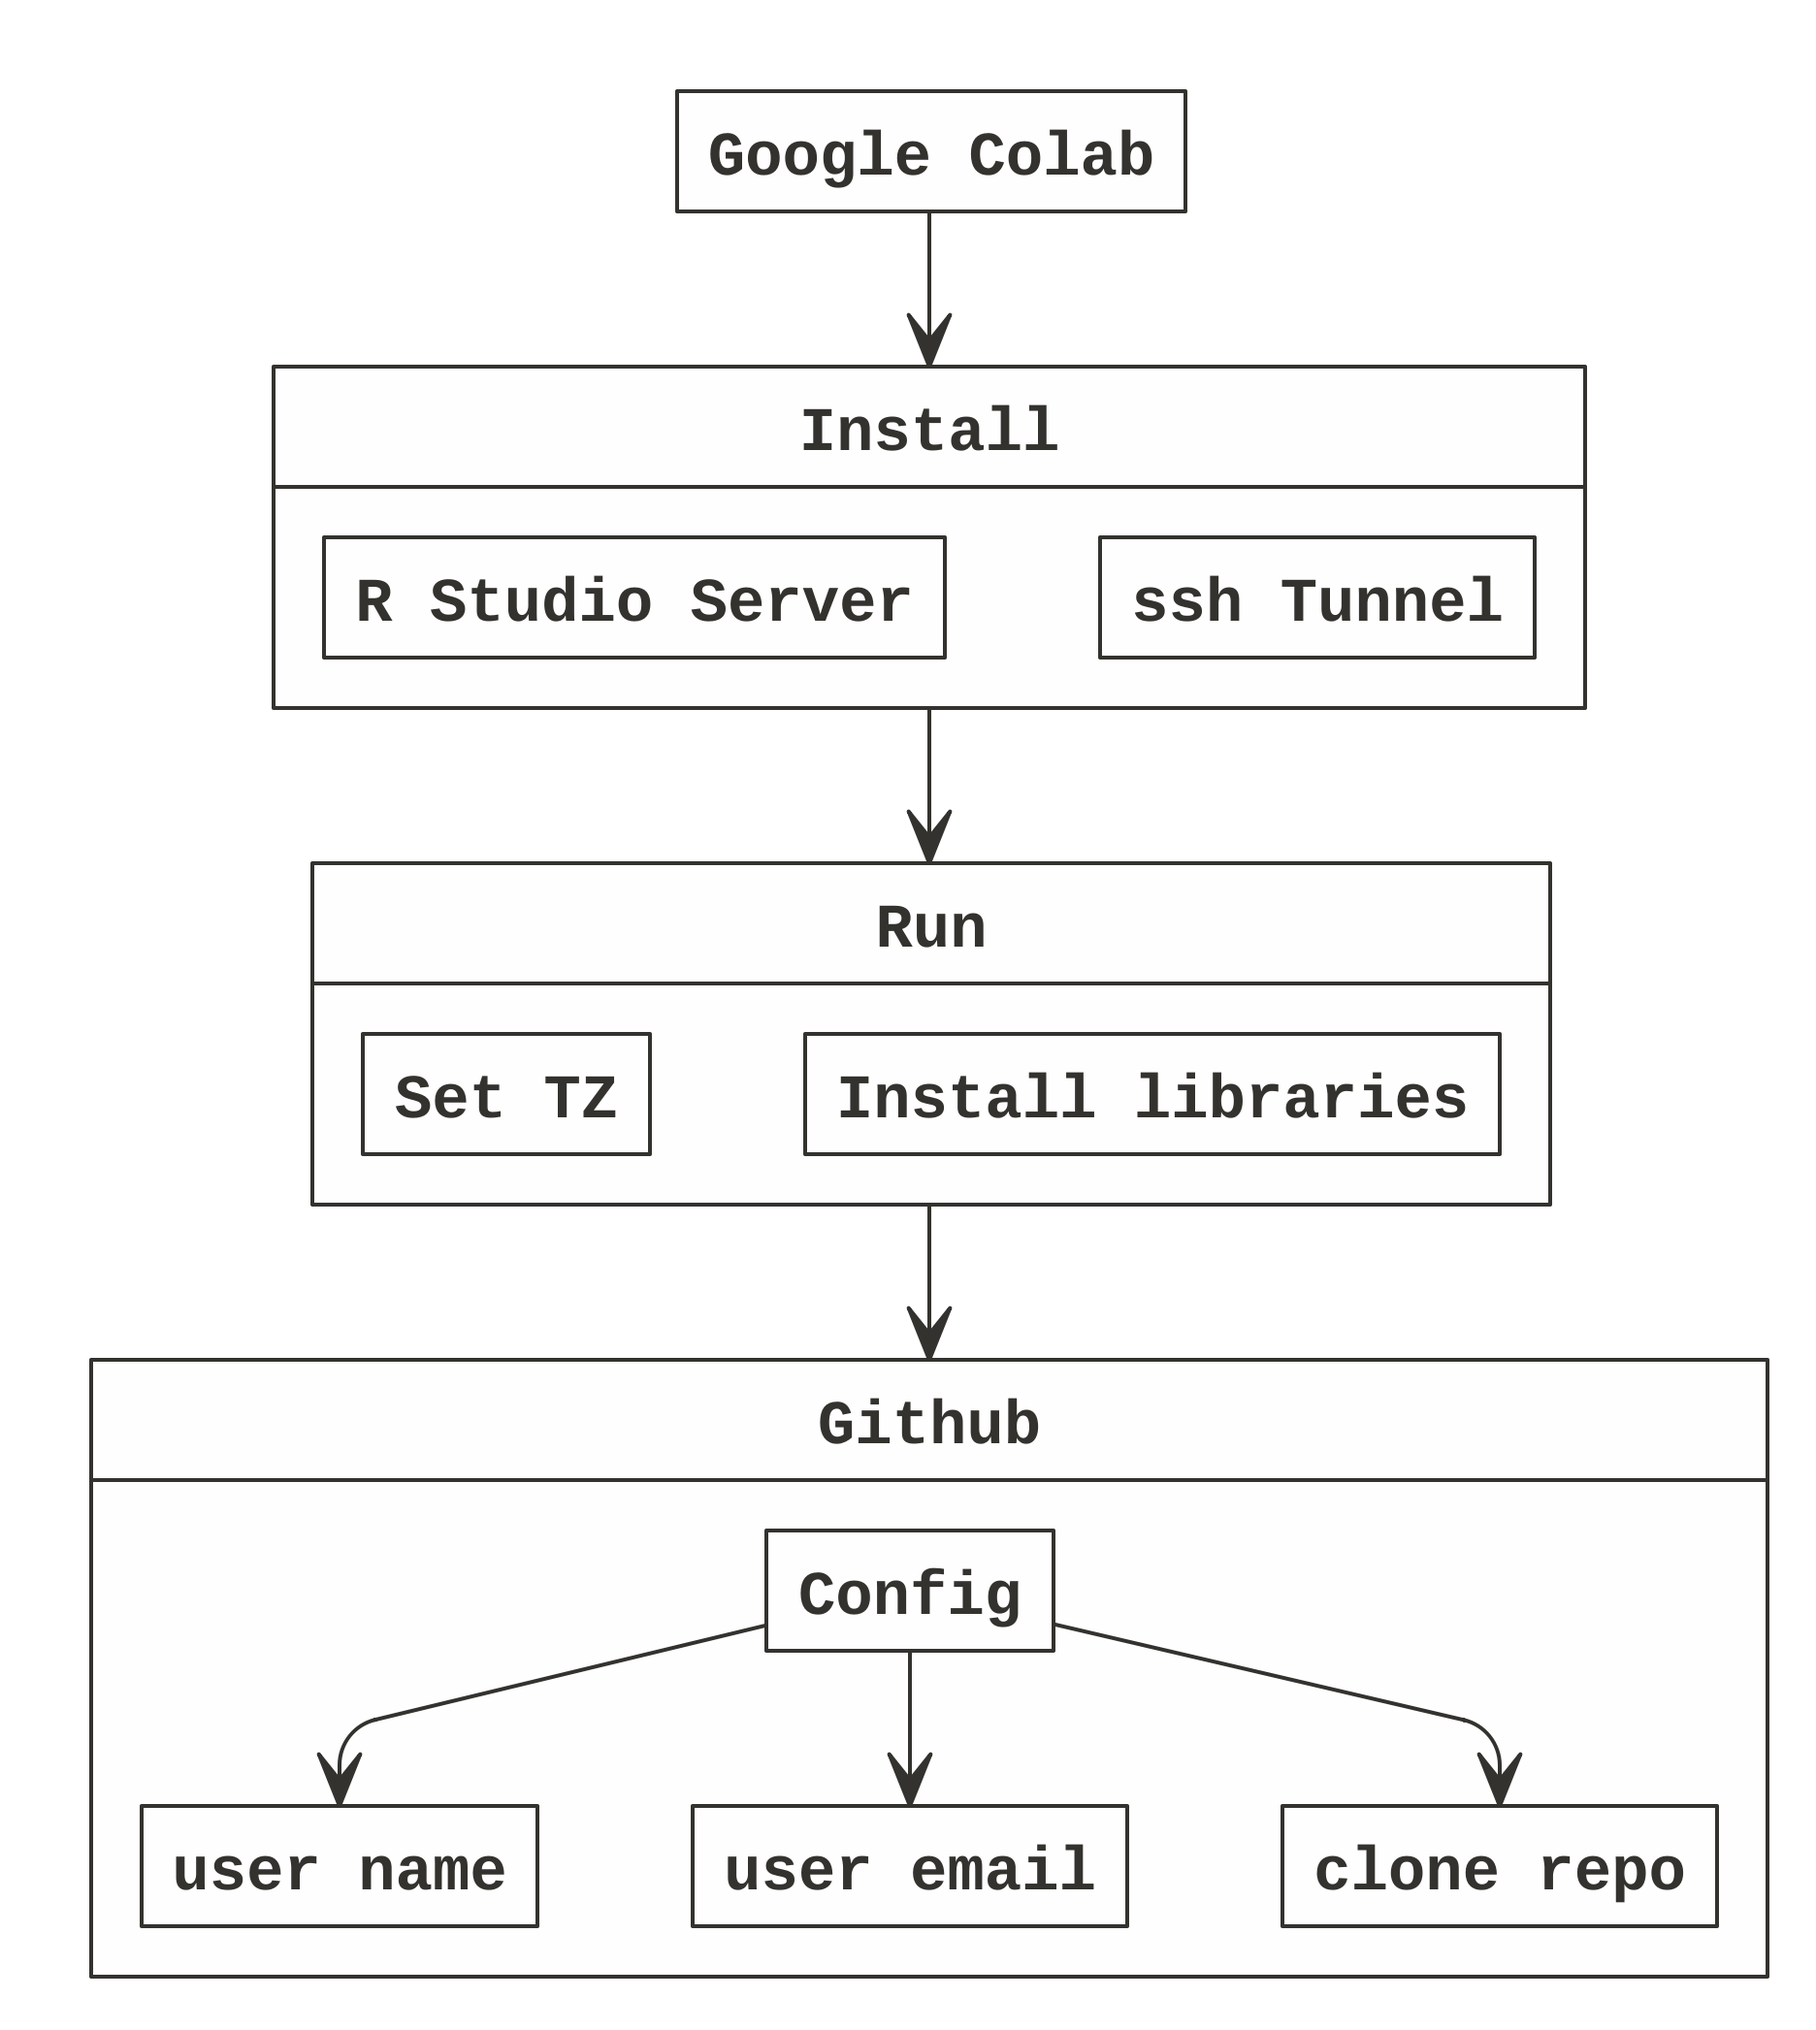
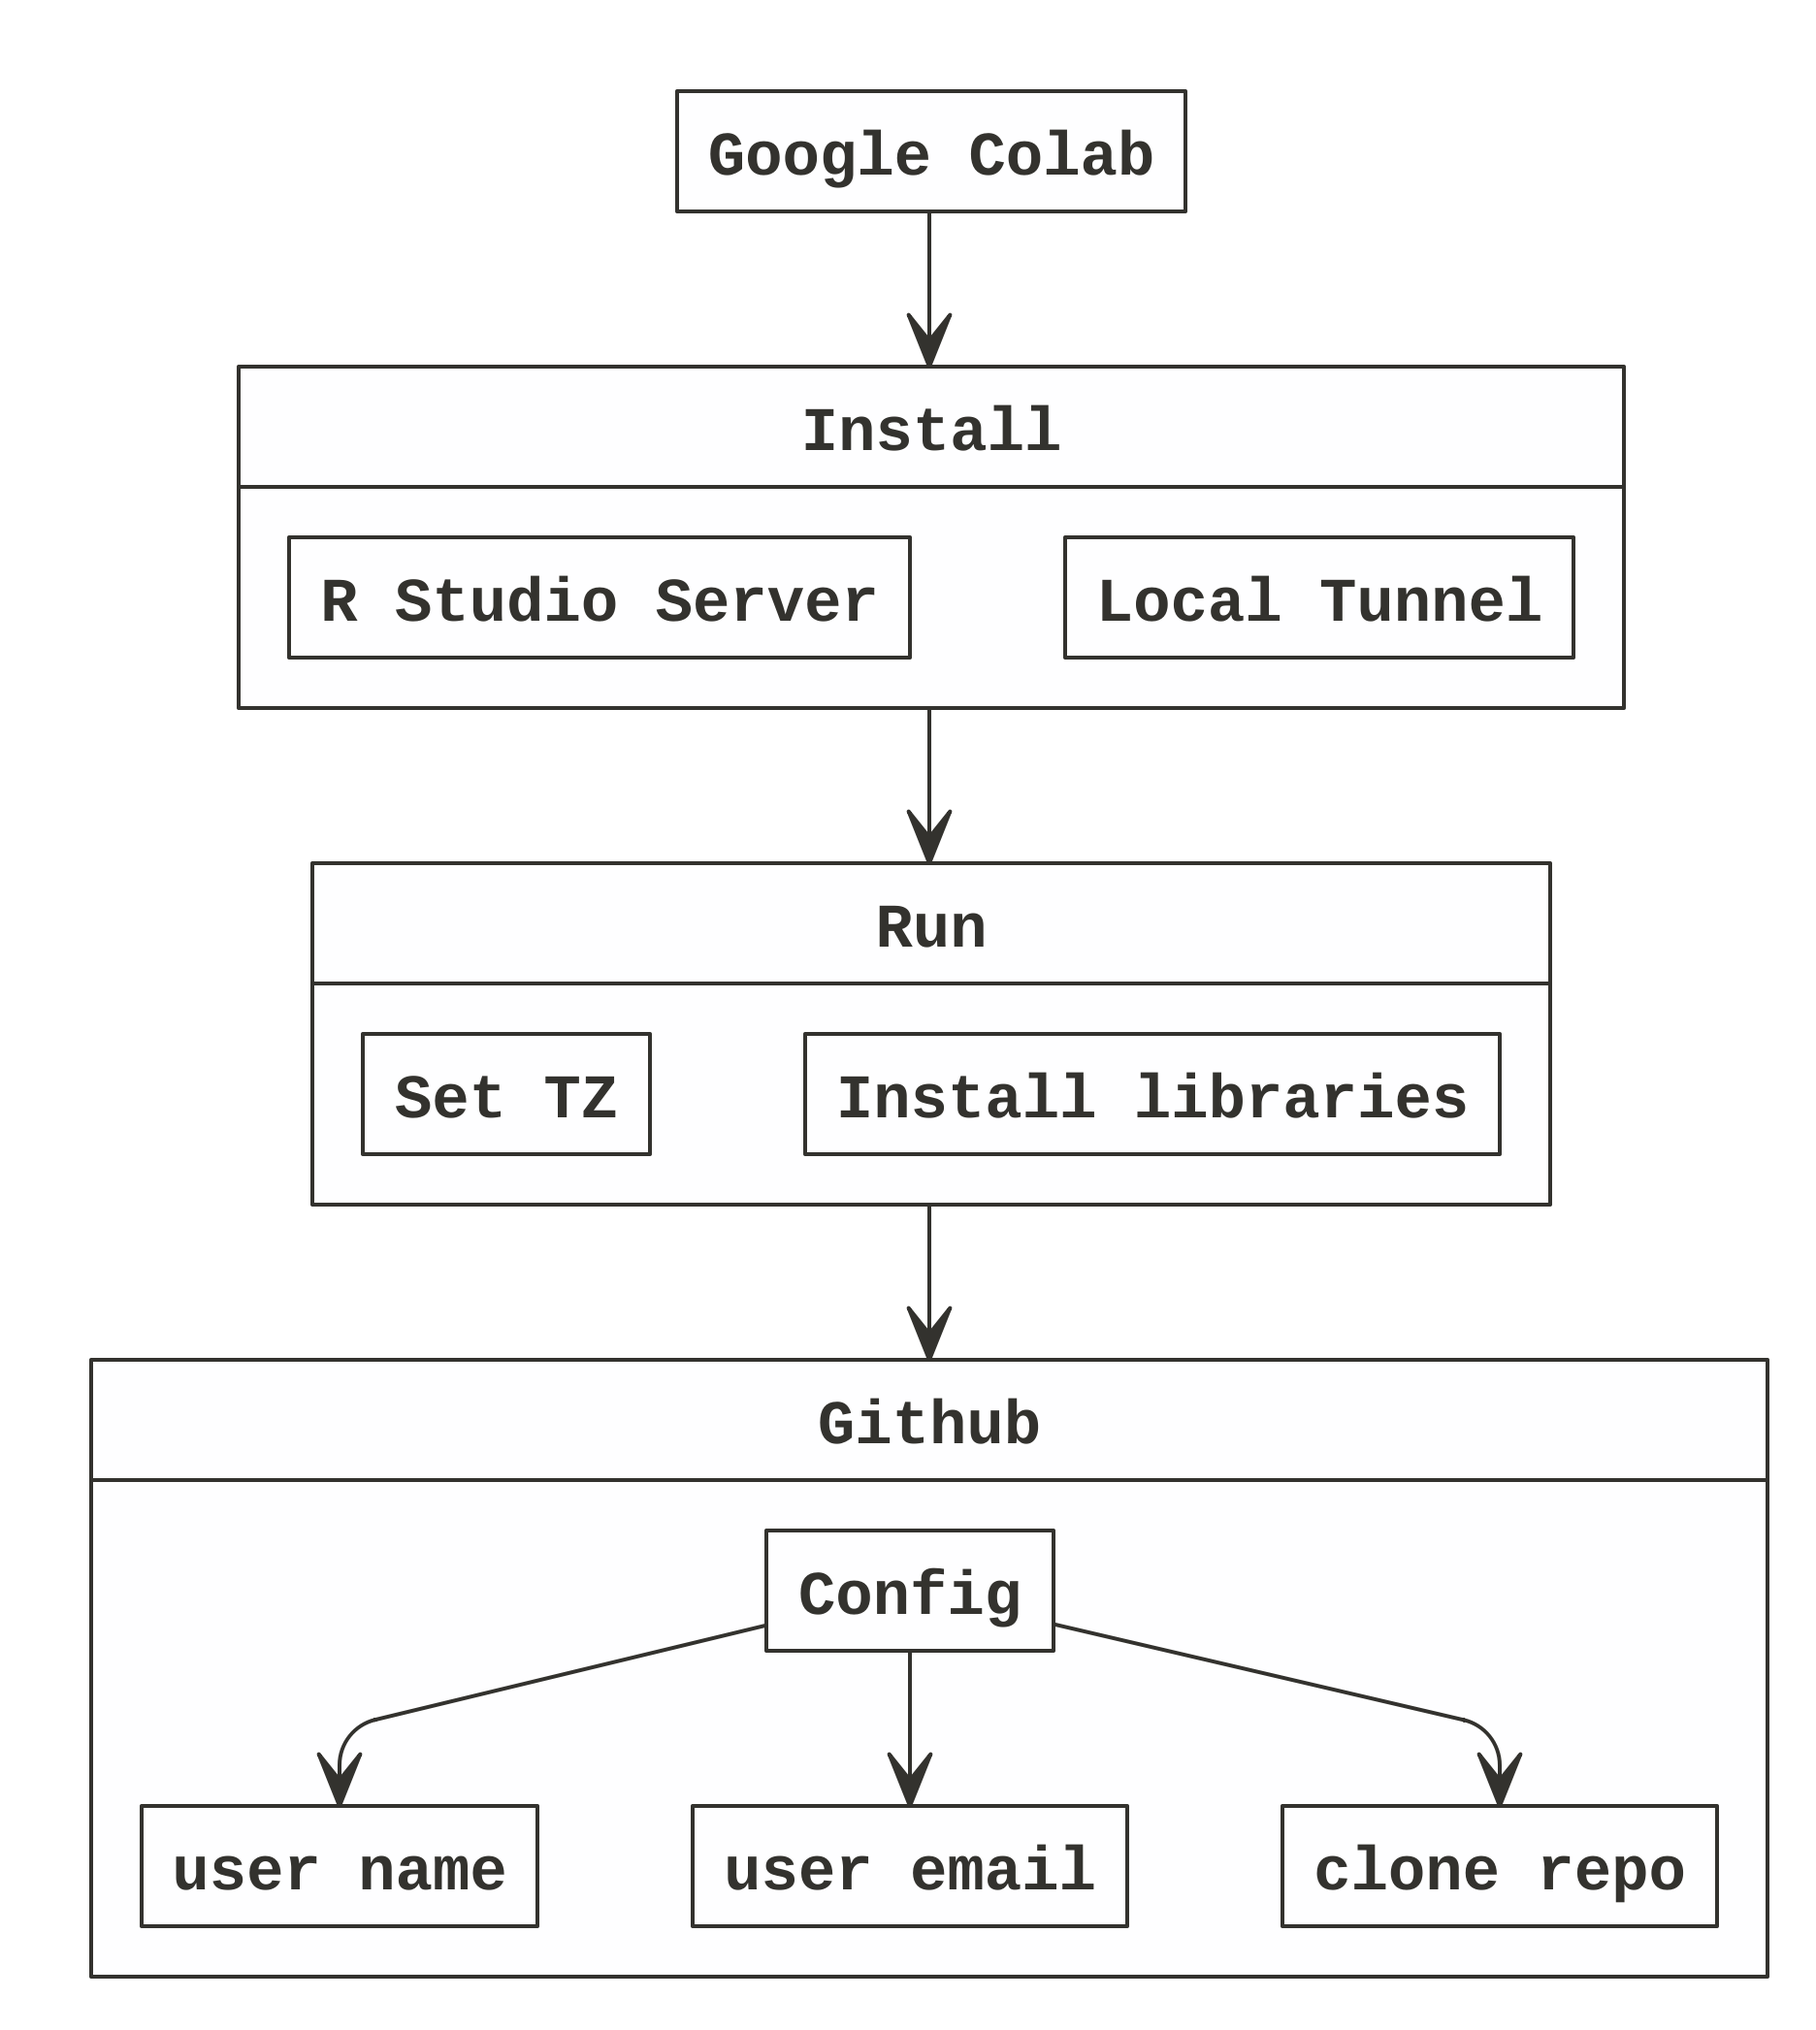
new

Changed region(s): [[0.1239, 0.1863, 0.5267, 0.3416], [0.5887, 0.1863, 0.8985, 0.3416], [0.5267, 0.1863, 0.5577, 0.2174]]

diff --git a/LEFO Market Research/lefo 2021/readme.md b/LEFO Market Research/lefo 2021/readme.md
@@ -50,7 +50,7 @@ forwarding* di **Linux**.
 
 ------------------------------------------------------------------------
 
-# *STEP* 1
+# SESI I
 
 ## Persiapan Github
 
@@ -108,11 +108,95 @@ Sebagai pengaman agar *file* yang ada di *cloud* tidak diganggu oleh
 orang yang tidak berkepentingan, kita perlu membuat *tokens* yang
 berguna untuk komunikasi antara **R Studio** dengan Github.
 
-## Set Time Zone
+## Persiapan Google Colab
+
+Pastikan kita telah memiliki akun Gmail. Buka situs [Google
+Colab](https://colab.research.google.com/#create=true) berbasis
+`Python3`.
+
+*Copy-paste-run codes below:*
+
+    # saya berikan penjelasan setiap baris codesnya ya
+
+    # dua baris ini adalah untuk membuat user di Linux
+    # secara default saya buat sebagai berikut:
+      # user : rstudio
+      # pass : password
+    # feel free untuk mengganti ATAU menambahkan multi user
+    # ingatlah bahwa compute engine ini milik Google
+    # jadi siapa tahu bisa dirun paralel untuk multi user
+
+    !sudo useradd -m -s /bin/bash rstudio
+    !echo rstudio:password | chpasswd
+
+
+    # melakukan update Linux
+    !apt-get update
+
+    # install R base (cli version)
+    !apt-get install r-base
+
+    # install beberapa library Linux
+    !apt-get install libglpk-dev # ini khusus untuk optimisasi
+    !apt-get install gdebi-core
+
+    # download installer R studio server dari situs resmi
+    !wget https://download2.rstudio.org/server/bionic/amd64/rstudio-server-1.4.1103-amd64.deb
+
+    # proses instalasi R studio server
+    !gdebi -n rstudio-server-1.4.1103-amd64.deb
+
+    # Install localtunnel
+    !npm install -g npm
+    !npm install -g localtunnel
+
+    # forward port 8787 ke public
+    !lt --port 8787 
+
+Proses ini berkisar antara 2-3 menit saja.
+
+Setelah prosesnya selesai, silakan buka alamat situs yang tertera. Klik
+`continue` dan masukkan *username* dan *password* yang telah kita
+tentukan.
+
+## Persiapan **R Studio Server**
+
+**R Studio Server** sudah bisa digunakan. Beberapa *libraries* standar
+seperti `dplyr` dan `ggplot2` sudah *pre-installed* di dalam sistem.
+
+Jika kita ingin meng-*install* *libraries* lain, kita perlu melakukan
+konfigurasi *time zone* dengan perintah sederhana sebagai berikut:
+
+### *Set Time Zone*
+
+*Copy-paste-run codes below:*
 
     Sys.setenv(TZ = "GMT")
 
-## Config Git Global Setting
+Pada *tab* `Terminal`.
+
+### *Config Git Global Setting*
+
+Untuk menghubungkan **R Studio Server** dengan Github *repository*, kita
+perlu melakukan konfigurasi sebagai berikut:
+
+*Copy-paste-run codes below:*
 
     system('git config --global user.name "yourname"')
     system('git config --global user.email "youremail@email.com"')
+
+Pada *tab* `Terminal`.
+
+### *Clone Github Repository*
+
+Sekarang kita akan *clone github repository* ke dalam **R Studio**
+*Environment*.
+
+Semua persiapan yang kita lakukan sudah selesai. Seharusnya hanya
+berjalan 5-10 menit saja. Selama *session* **Google Colab** tidak
+terputus, *R Studio Server* bisa diandalkan.
+
+Pengalaman saya *run* semalaman saat tidak ada eksekusi sama sekali,
+*session*-nya tidak terputus.
+
+# SESI IIII
